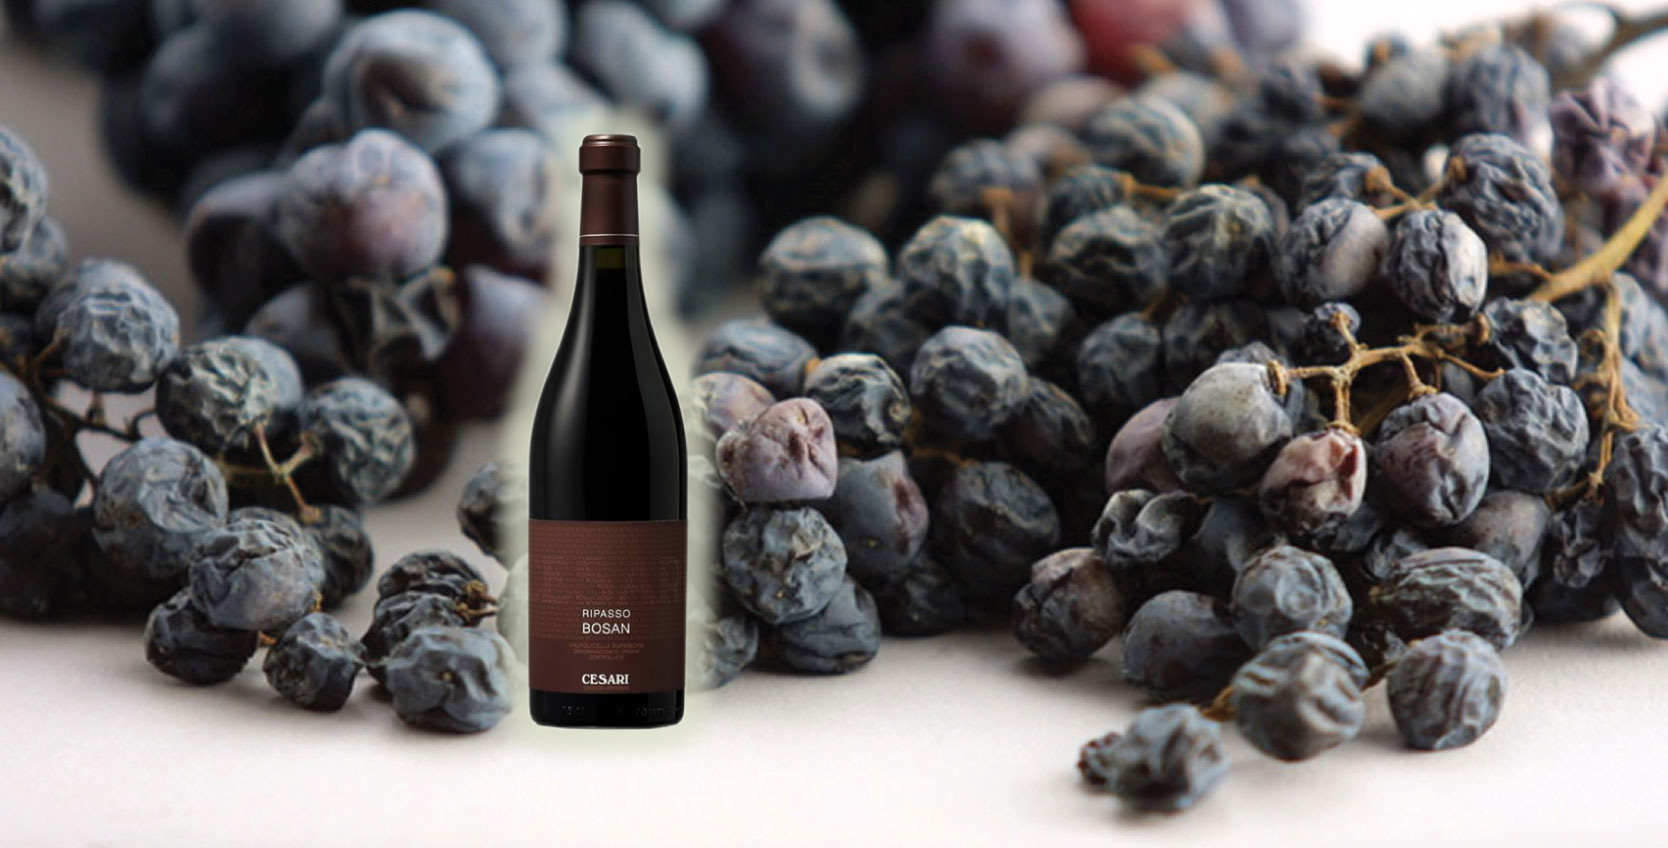
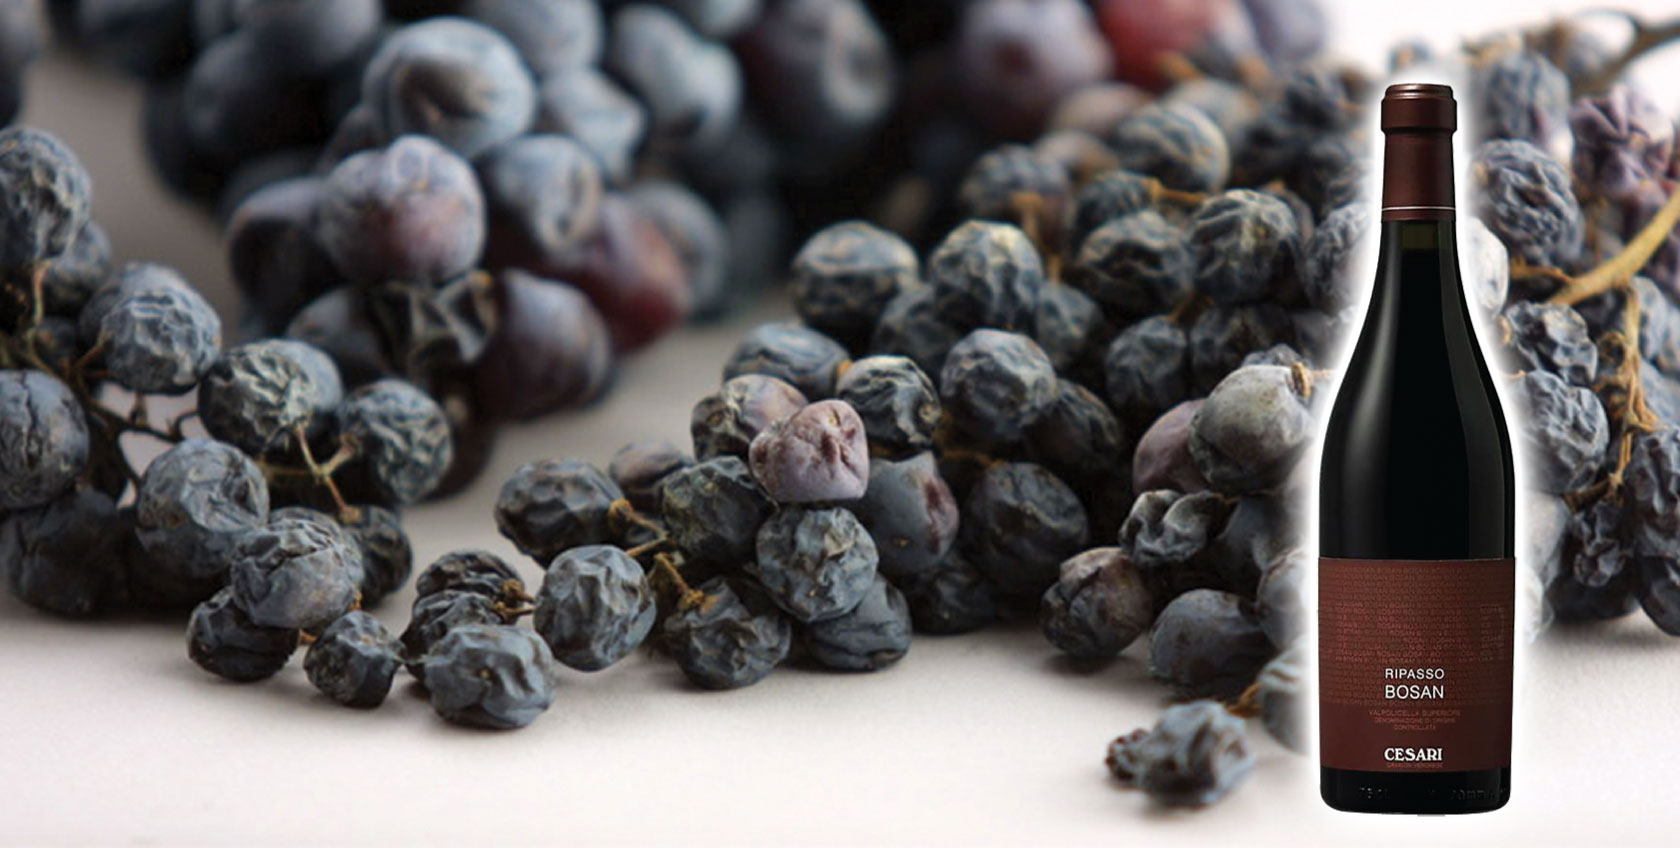
Обновление слайдов

diff --git a/www/index.html b/www/index.html
@@ -147,7 +147,7 @@
 		</div>
 		<!-- end slide -->
 		<!-- begin slide -->
-		<div class="superslider__slide" style="background-image: url(img/slider/Cesari-a.jpg);">
+		<div class="superslider__slide" style="background-image: url(img/slider/Cesari.jpg);">
 			<div class="superslider__text">
 				<span>Винодельческий дом</span>
 				ЧЕЗАРИ
@@ -156,10 +156,6 @@
 		<!-- end slide -->
 		<!-- begin slide -->
 		<div class="superslider__slide" style="background-image: url(img/slider/Poggio_Antico.jpg);">
-			<div class="superslider__text">
-				<span>Винодельческий дом</span>
-				ПОДДЖО АНТИКО
-			</div>
 		</div>
 		<!-- end slide -->
 		<!-- begin slide -->

diff --git a/www/catalog-a.html b/www/catalog-a.html
@@ -56,7 +56,7 @@
 		</div>
 		<!-- end slide -->
 		<!-- begin slide -->
-		<div class="superslider__slide" style="background-image: url(img/slider/Cesari-a.jpg);">
+		<div class="superslider__slide" style="background-image: url(img/slider/Cesari.jpg);">
 			<div class="superslider__text">
 				<span>Винодельческий дом</span>
 				ЧЕЗАРИ
@@ -65,10 +65,6 @@
 		<!-- end slide -->
 		<!-- begin slide -->
 		<div class="superslider__slide" style="background-image: url(img/slider/Poggio_Antico.jpg);">
-			<div class="superslider__text">
-				<span>Винодельческий дом</span>
-				ПОДДЖО АНТИКО
-			</div>
 		</div>
 		<!-- end slide -->
 		<!-- begin slide -->

diff --git a/www/catalog.html b/www/catalog.html
@@ -56,7 +56,7 @@
 		</div>
 		<!-- end slide -->
 		<!-- begin slide -->
-		<div class="superslider__slide" style="background-image: url(img/slider/Cesari-a.jpg);">
+		<div class="superslider__slide" style="background-image: url(img/slider/Cesari.jpg);">
 			<div class="superslider__text">
 				<span>Винодельческий дом</span>
 				ЧЕЗАРИ
@@ -65,10 +65,6 @@
 		<!-- end slide -->
 		<!-- begin slide -->
 		<div class="superslider__slide" style="background-image: url(img/slider/Poggio_Antico.jpg);">
-			<div class="superslider__text">
-				<span>Винодельческий дом</span>
-				ПОДДЖО АНТИКО
-			</div>
 		</div>
 		<!-- end slide -->
 		<!-- begin slide -->

diff --git a/www/index-tmp.html b/www/index-tmp.html
@@ -47,7 +47,7 @@
 		</div>
 		<!-- end slide -->
 		<!-- begin slide -->
-		<div class="superslider__slide" style="background-image: url(img/slider/Cesari-a.jpg);">
+		<div class="superslider__slide" style="background-image: url(img/slider/Cesari.jpg);">
 			<div class="superslider__text">
 				<span>Винодельческий дом</span>
 				ЧЕЗАРИ
@@ -56,10 +56,6 @@
 		<!-- end slide -->
 		<!-- begin slide -->
 		<div class="superslider__slide" style="background-image: url(img/slider/Poggio_Antico.jpg);">
-			<div class="superslider__text">
-				<span>Винодельческий дом</span>
-				ПОДДЖО АНТИКО
-			</div>
 		</div>
 		<!-- end slide -->
 		<!-- begin slide -->

diff --git a/www/o_dome-a.html b/www/o_dome-a.html
@@ -49,7 +49,7 @@
 		</div>
 		<!-- end slide -->
 		<!-- begin slide -->
-		<div class="superslider__slide" style="background-image: url(img/slider/Cesari-a.jpg);">
+		<div class="superslider__slide" style="background-image: url(img/slider/Cesari.jpg);">
 			<div class="superslider__text">
 				<span>Винодельческий дом</span>
 				ЧЕЗАРИ
@@ -58,10 +58,6 @@
 		<!-- end slide -->
 		<!-- begin slide -->
 		<div class="superslider__slide" style="background-image: url(img/slider/Poggio_Antico.jpg);">
-			<div class="superslider__text">
-				<span>Винодельческий дом</span>
-				ПОДДЖО АНТИКО
-			</div>
 		</div>
 		<!-- end slide -->
 		<!-- begin slide -->

diff --git a/www/o_dome.html b/www/o_dome.html
@@ -49,7 +49,7 @@
 		</div>
 		<!-- end slide -->
 		<!-- begin slide -->
-		<div class="superslider__slide" style="background-image: url(img/slider/Cesari-a.jpg);">
+		<div class="superslider__slide" style="background-image: url(img/slider/Cesari.jpg);">
 			<div class="superslider__text">
 				<span>Винодельческий дом</span>
 				ЧЕЗАРИ
@@ -58,10 +58,6 @@
 		<!-- end slide -->
 		<!-- begin slide -->
 		<div class="superslider__slide" style="background-image: url(img/slider/Poggio_Antico.jpg);">
-			<div class="superslider__text">
-				<span>Винодельческий дом</span>
-				ПОДДЖО АНТИКО
-			</div>
 		</div>
 		<!-- end slide -->
 		<!-- begin slide -->

diff --git a/www/o_proekte.html b/www/o_proekte.html
@@ -53,7 +53,7 @@
 		</div>
 		<!-- end slide -->
 		<!-- begin slide -->
-		<div class="superslider__slide" style="background-image: url(img/slider/Cesari-a.jpg);">
+		<div class="superslider__slide" style="background-image: url(img/slider/Cesari.jpg);">
 			<div class="superslider__text">
 				<span>Винодельческий дом</span>
 				ЧЕЗАРИ
@@ -62,10 +62,6 @@
 		<!-- end slide -->
 		<!-- begin slide -->
 		<div class="superslider__slide" style="background-image: url(img/slider/Poggio_Antico.jpg);">
-			<div class="superslider__text">
-				<span>Винодельческий дом</span>
-				ПОДДЖО АНТИКО
-			</div>
 		</div>
 		<!-- end slide -->
 		<!-- begin slide -->
